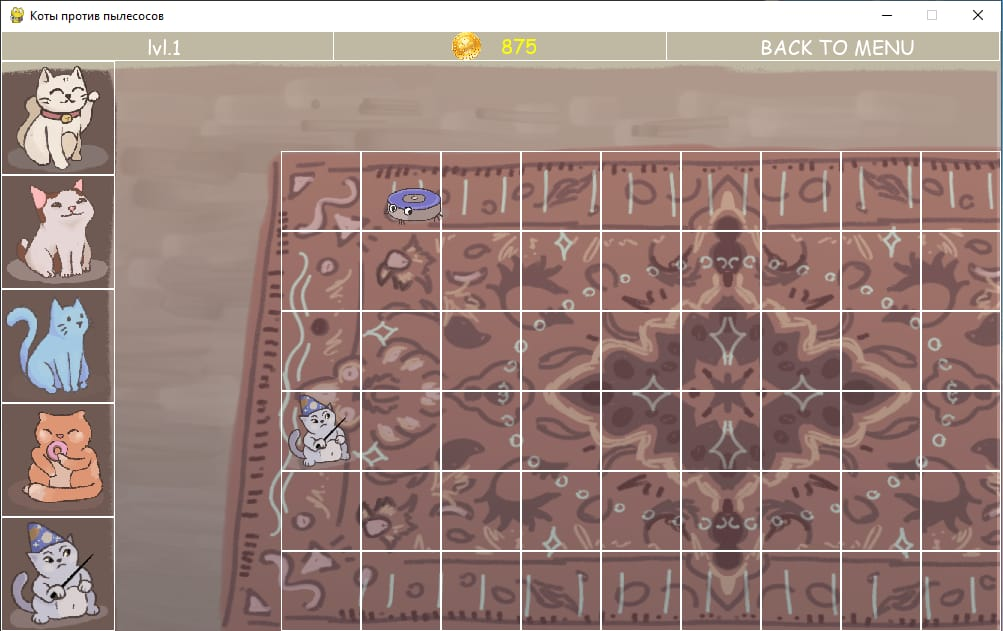
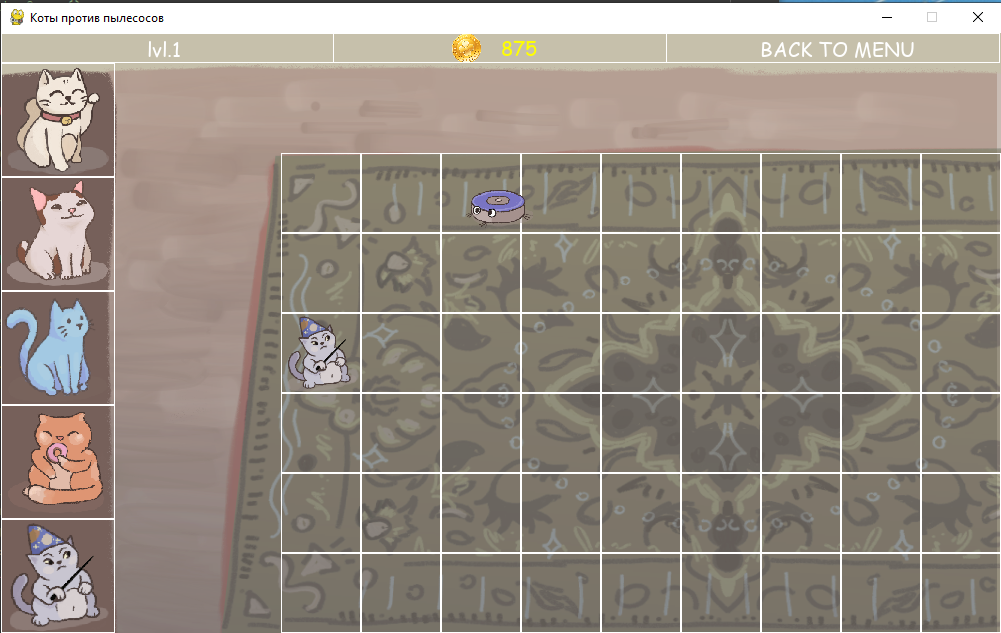
изменен фон

diff --git a/main.py b/main.py
@@ -333,10 +333,6 @@ class InfoBar(Board):
         intro_rect2.x = DIS_SIZE[0] - DIS_SIZE[0] // 3 // 2 - 75
         screen.blit(string_rendered2, intro_rect2)
 
-    # Возвращение на карту уровней при нажатии на ячейку
-    def back_to_menu(self):
-        pass
-
 
 # Класс котиков
 class Cats(pygame.sprite.Sprite):
@@ -571,7 +567,7 @@ while run_game:
     cell_size = 80
     board.set_view(DIS_SIZE[0] - cell_size * 9, DIS_SIZE[1] - cell_size * 6, cell_size)
 
-    game_fon = pygame.transform.scale(load_image('фон_трава.png'), (DIS_SIZE[0], DIS_SIZE[1]))
+    game_fon = pygame.transform.scale(load_image('фон_ковер.png'), (DIS_SIZE[0], DIS_SIZE[1]))
     shop = Shop(1, 5)
     shop.set_view(0, 30, DIS_SIZE[1] // 5 - 6)
     make_cat = ''
